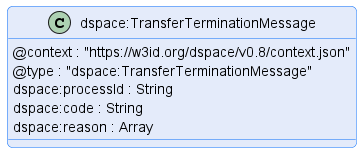
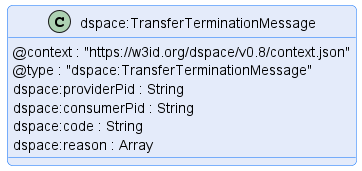
feat(TP): change processId to providerPid and consumerPid

Changed region(s): [[0.0, 0.0261, 1.0, 0.7843], [0.0, 0.7843, 1.0, 0.9935]]

diff --git a/transfer/transfer.process.protocol.md b/transfer/transfer.process.protocol.md
@@ -88,18 +88,19 @@ The `TransferRequestMessage` is sent by a consumer to initiate a transfer proces
 
 #### Notes
 
+- The `consumerPid` property refers to the transfer id on consumer side.
 - The `agreementId` property refers to an existing contract agreement between the consumer and provider.
 - The `dct:format` property is a format specified by a `Distribution` for the `Asset` associated with the agreement. This is generally obtained from the provider `Catalog`.
 - The `dataAddress` property must only be provided if the `dct:format` requires a push transfer.
 - `callbackAddress` is a URI indicating where messages to the consumer should be sent. If the address is not understood, the provider MUST return an UNRECOVERABLE error.
 
-Providers should implement idempotent behavior for `TransferRequestMessage` based on the value of `@id`. Providers may choose to implement idempotent behavior for a certain period of
-time. For example, until a transfer processes has completed and been archived after an implementation-specific expiration period. If a request for the given `@id` has already been
+Providers should implement idempotent behavior for `TransferRequestMessage` based on the value of `dspace:consumerPid`. Providers may choose to implement idempotent behavior for a certain period of
+time. For example, until a transfer processes has completed and been archived after an implementation-specific expiration period. If a request for the given `dspace:consumerPid` has already been
 received *and* the same consumer sent the original message, the provider should respond with an appropriate `DataAddressMessage`.
 
-Once a transfer process have been created, all associated callback messages must include a `processId` set to the `TransferRequestMessage` `@id` value.
+Once a transfer process have been created, all associated callback messages must include a `dspace:consumerPid` and `dspace:providerPid`.
 
-Providers must include a `processId` property in the `TransferProcess` with a value set to the `@id` of the corresponding `TransferRequestMessage`.
+Providers must include a `dspace:consumerPid` and a `dspace:providerPid` property in the `TransferProcess`.
 
 - The `dataAddress` contains a transport-specific endpoint address for pushing the asset. It may include a temporary authorization token.
 - Valid states of a `TransferProcess` are `REQUESTED`, `STARTED`, `TERMINATED`, `COMPLETED`, and `SUSPENDED`.
